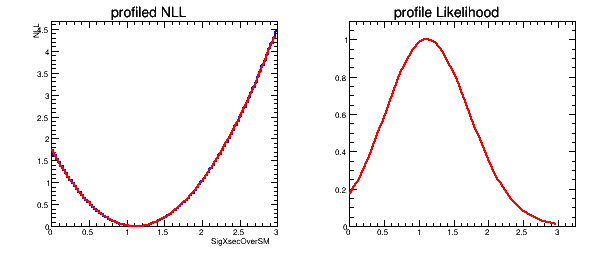
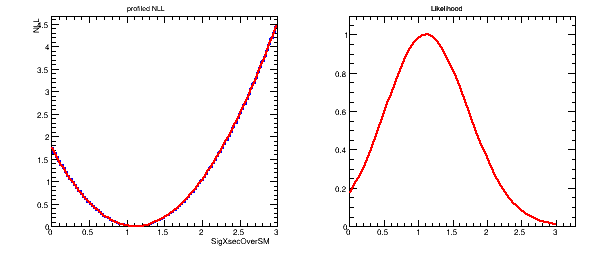
Update plotting in batch.

diff --git a/tutorials/roostats/py/PyROOTUtils.py b/tutorials/roostats/py/PyROOTUtils.py
@@ -125,17 +125,17 @@ class Graph( ROOT.TGraph ):
       self.ComputeRange( r[0], r[1], r[2], r[3] )
       return r
 
-   def scale( self, factor ):
+   def transformY( self, function ):
       for i in range( 0, self.GetN() ):
          p = ( ROOT.Double(), ROOT.Double() )
          self.GetPoint( i, p[0], p[1] )
-         self.SetPoint( i, p[0], p[1]*factor )
+         self.SetPoint( i, p[0], function(p[1]) )
+
+   def scale( self, factor ):
+      self.transformY( lambda y: y*factor )
 
    def add( self, term ):
-      for i in range( 0, self.GetN() ):
-         p = ( ROOT.Double(), ROOT.Double() )
-         self.GetPoint( i, p[0], p[1] )
-         self.SetPoint( i, p[0], p[1]+term )
+      self.transformY( lambda y: y+term )
    
    def integral( self ):
       """ Calculate integral using trapezoidal rule. """
@@ -148,6 +148,7 @@ class Graph( ROOT.TGraph ):
          
          integral += (thisPoint[0]-previousPoint[0]) * (thisPoint[1]+previousPoint[1])/2.0
       return integral
+      
       
    def argminX( self ):
       """ Get the minimum X. """

diff --git a/tutorials/roostats/py/BatchProfileLikelihoodPlot.py b/tutorials/roostats/py/BatchProfileLikelihoodPlot.py
@@ -217,7 +217,12 @@ def main():
          nllTGraph.SetLineWidth( 2 )
          nllTGraph.SetLineColor( ROOT.kRed )
          nllTGraph.Draw("SAME")
-      canvas.cd(2)
+
+         canvas.cd(2)
+         lGraph = PyROOTUtils.Graph( nllTGraph )
+         lGraph.SetTitle( "Likelihood" )
+         lGraph.transformY( lambda y: math.exp(-y) )
+         lGraph.Draw("AXIS L")
       canvas.SaveAs( "doc/images/batchProfileLikelihood1D.png" )
       canvas.Update()
       raw_input( "Press enter to continue ..." )
